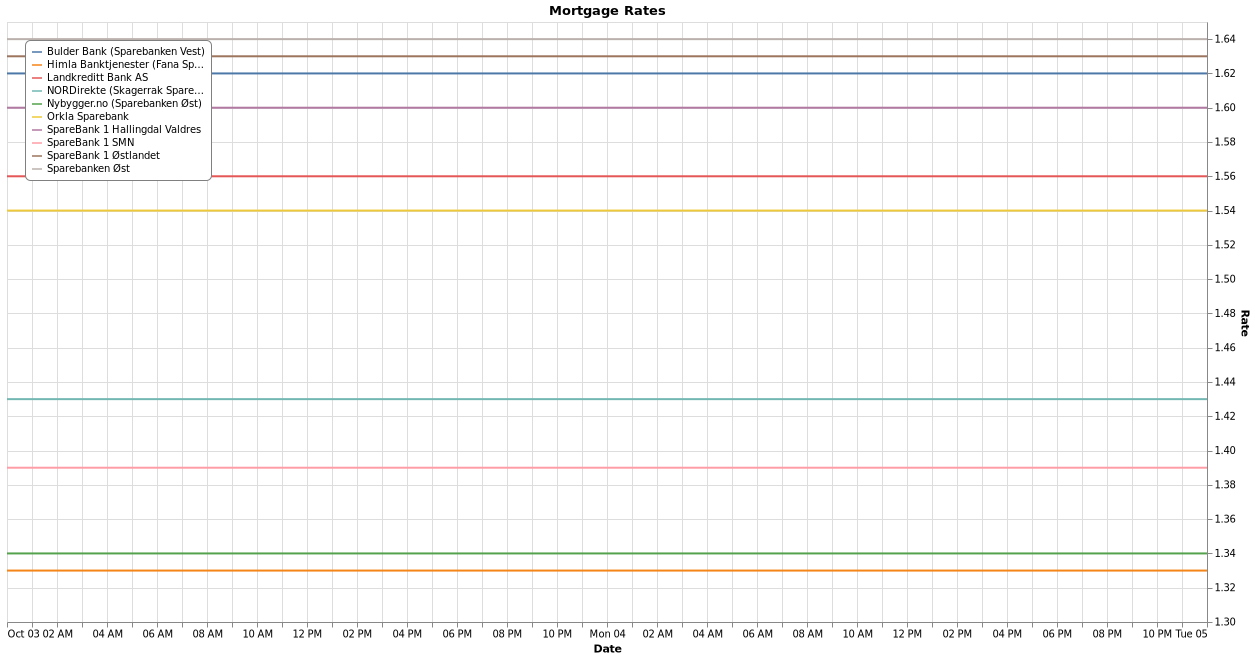
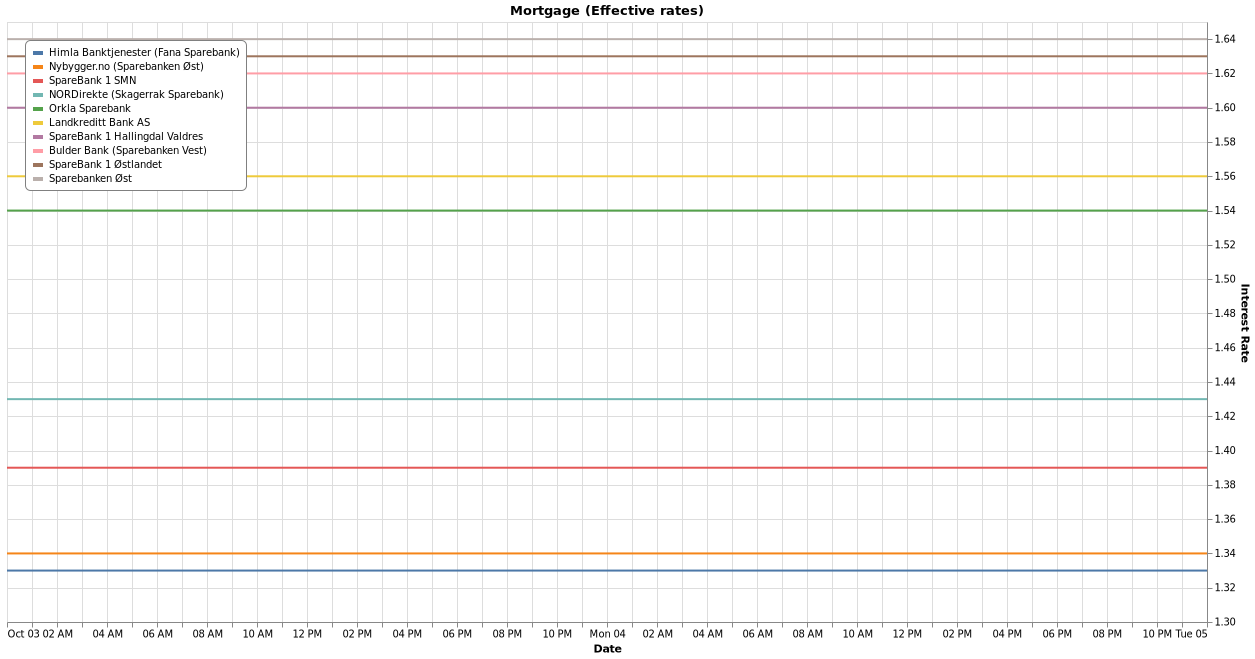
Sort legend in mortgage graph

diff --git a/graphs.py b/graphs.py
@@ -11,15 +11,16 @@ def mortgage():
         parse_dates=["date"],
         usecols=["date", "bank", "rate_effective"],
     )
+    df_last = df[(df["date"] >= (df["date"].max()))]
 
     chart = (
-        alt.Chart(df, title="Mortgage Rates")
+        alt.Chart(df, title="Mortgage (Effective rates)")
         .mark_line()
         .encode(
             x=alt.X("date", axis=alt.Axis(title="Date")),
             y=alt.Y(
                 "rate_effective:Q",
-                title="Rate",
+                title="Interest Rate",
                 scale=alt.Scale(zero=False),
                 axis=alt.Axis(orient="right", format=".2f"),
             ),
@@ -29,11 +30,14 @@ def mortgage():
                 legend=alt.Legend(
                     title=None,
                     strokeColor="gray",
+                    labelLimit=200,
                     padding=6,
                     cornerRadius=5,
                     orient="top-left",
                     fillColor="#FFFFFF",
+                    symbolStrokeWidth=4,
                 ),
+                sort=df_last.bank.values,
             ),
         )
         .properties(width=1200, height=600)
